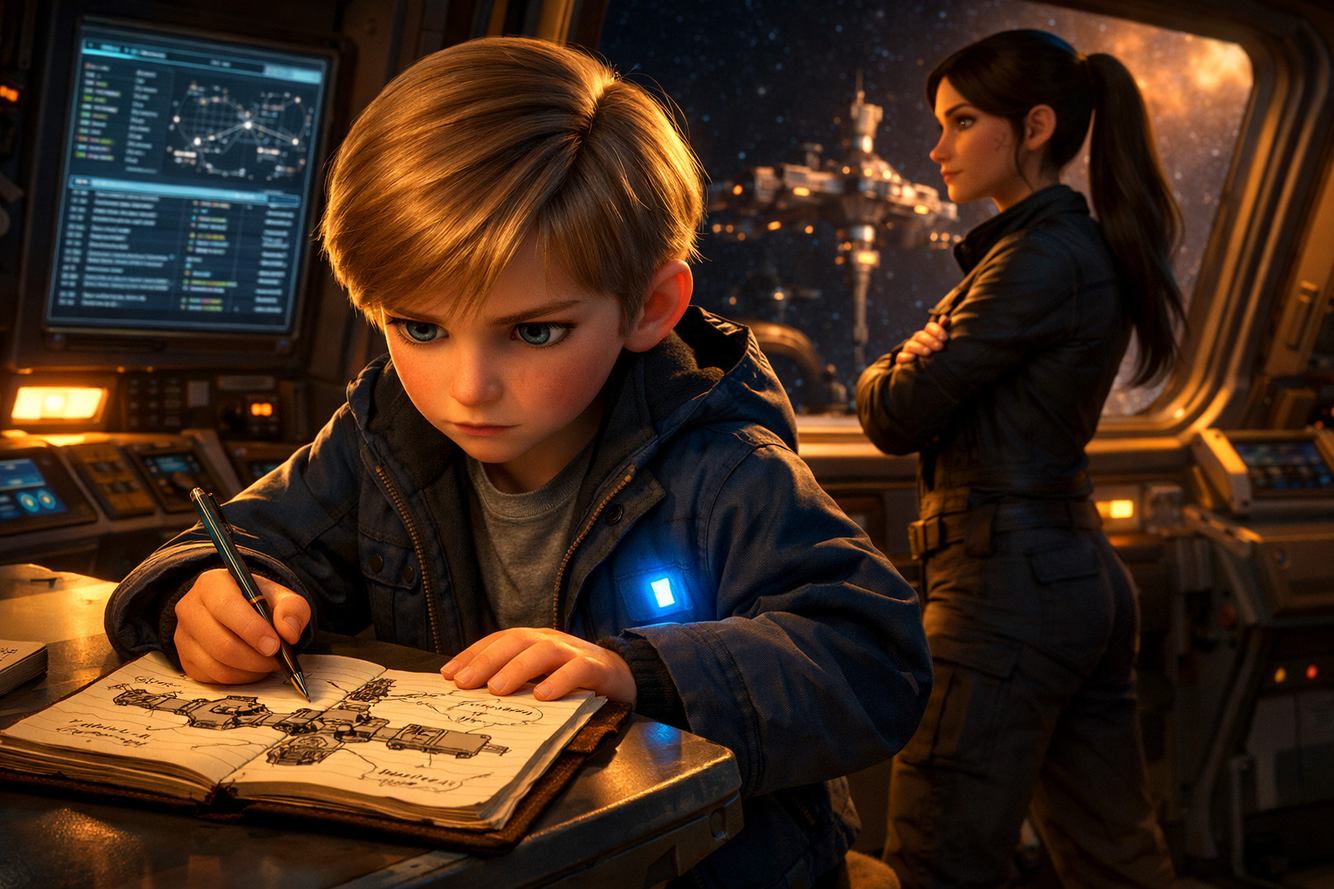
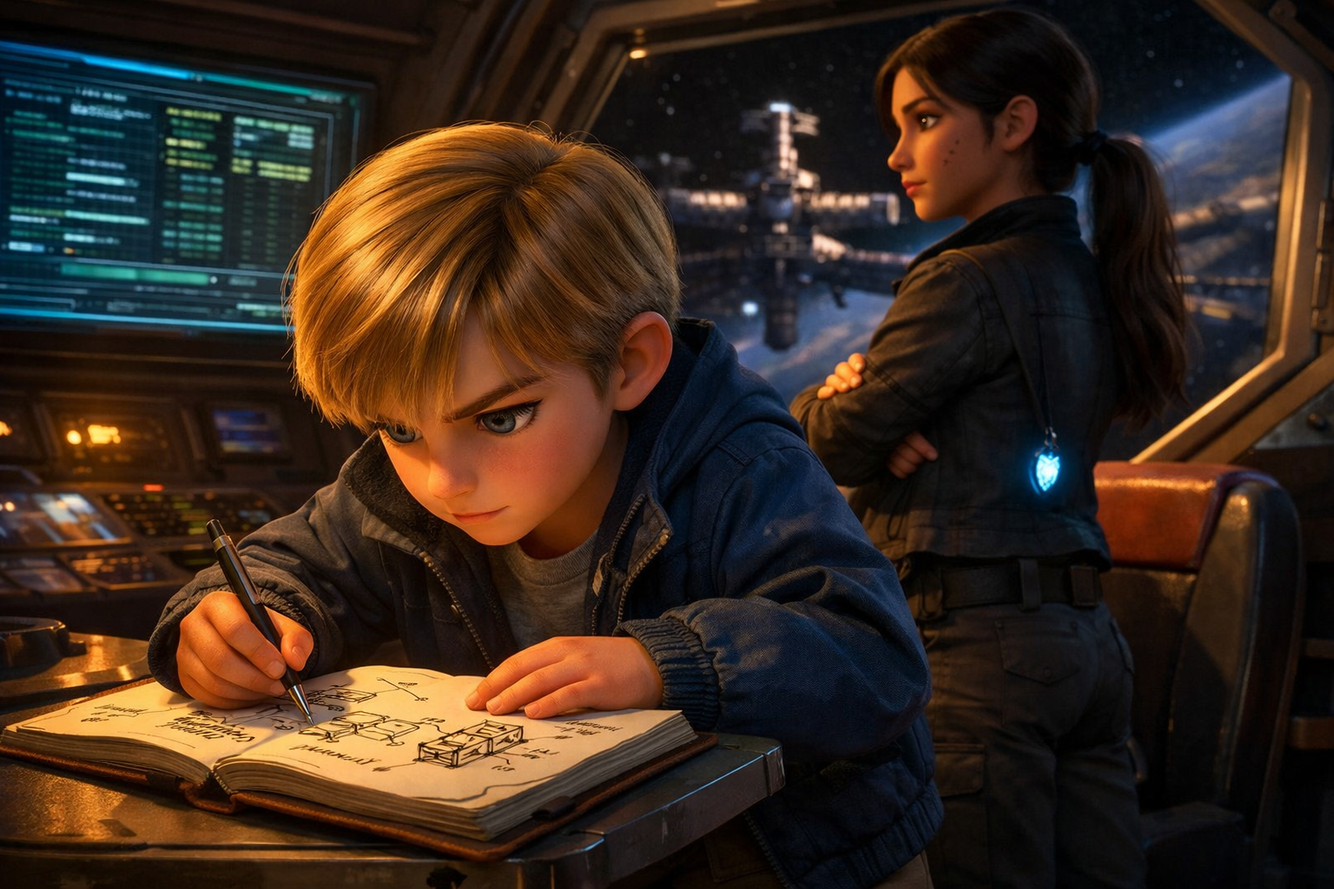
Fix continuity: Declan orange rectangle (not sphere), spire colors, fragment count

diff --git a/stories/chapter-018.md b/stories/chapter-018.md
@@ -13,17 +13,17 @@ On the flight home from the Shale Drift, the scout ship's cockpit had turned int
 
 **Page 2**
 
-Sable didn't look up from the controls. Her hands were steady on the flight stick, dark ponytail silhouetted against the starfield through the windshield, jaw scar visible in profile. She had been quiet since they'd left the Drift, running scenarios in her head with the same methodical patience she brought to everything. "Whatever it is," she said, "it's guarding a fragment that isn't glowing. That's the priority." She was right, and everyone knew it. The dark red fragment sitting in that cave — dull and lifeless like dried rust — was wrong in a way that none of their fragments had ever been. Fragments glowed. That was the one constant. Behind them in the cabin, Declan slept curled against Ollie on a bench seat, both of them peaceful and oblivious to the weight of the conversation happening ten feet away. The amber sphere at Declan's chest pulsed softly in time with his breathing, casting a warm glow across the dog's silver-grey fur. Even in sleep, the toddler seemed to know something the rest of them were still trying to figure out.
+Sable didn't look up from the controls. Her hands were steady on the flight stick, dark ponytail silhouetted against the starfield through the windshield, jaw scar visible in profile. She had been quiet since they'd left the Drift, running scenarios in her head with the same methodical patience she brought to everything. "Whatever it is," she said, "it's guarding a fragment that isn't glowing. That's the priority." She was right, and everyone knew it. The dark red fragment sitting in that cave — dull and lifeless like dried rust — was wrong in a way that none of their fragments had ever been. Fragments glowed. That was the one constant. Behind them in the cabin, Declan slept curled against Ollie on a bench seat, both of them peaceful and oblivious to the weight of the conversation happening ten feet away. The small orange rectangle at Declan's chest pulsed softly in time with his breathing, casting a warm glow across the dog's silver-grey fur. Even in sleep, the toddler seemed to know something the rest of them were still trying to figure out.
 
-<!-- PROMPT: Pixar/Disney-quality 3D animated illustration, warm cinematic lighting, rich saturated colors, expressive faces, 16:9 landscape format. Over-the-shoulder shot from behind {{sable}} at the pilot controls, her dark ponytail silhouetted against the starfield through the windshield. Her hands are steady on the flight stick, expression focused and contemplative, scar visible in profile. In the background cabin behind her, {{declan}} sleeps curled against {{ollie}} on a bench seat, both peaceful — the amber sphere at Declan's chest casting a soft warm glow across the dog's silver-grey curly fur. Blue starlight from the windows mixes with warm amber glow from the fragment. Quiet, determined atmosphere. -->
+<!-- PROMPT: Pixar/Disney-quality 3D animated illustration, warm cinematic lighting, rich saturated colors, expressive faces, 16:9 landscape format. Over-the-shoulder shot from behind {{sable}} at the pilot controls, her dark ponytail silhouetted against the starfield through the windshield. Her hands are steady on the flight stick, expression focused and contemplative, scar visible in profile. In the background cabin behind her, {{declan}} sleeps curled against {{ollie}} on a bench seat, both peaceful — the small orange rectangle at Declan's chest casting a soft warm glow across the dog's silver-grey curly fur. Blue starlight from the windows mixes with warm amber glow from the fragment. Quiet, determined atmosphere. -->
 
 ---
 
 **Page 3**
 
-Monscollis Colony appeared below them as the scout ship broke through the upper atmosphere — the familiar patchwork of domed buildings and greenhouse tunnels spread across the red-brown terrain, with the crystal spire rising above it all like a lighthouse made of living light. Tonight the spire pulsed with five distinct colors — blue, gold, amber, violet, and silver-blue — painting the evening sky in shifting bands of color that made the sunset look like it was competing for attention and losing. Captain Okonkwo was waiting at the bottom of the landing ramp. She stood with her arms behind her back, tall and authoritative in her dark colony uniform, watching the ship settle onto the pad with the unreadable expression of someone who had been expecting bad news and was bracing herself to hear it. "Report," she said before the ramp had fully extended. Julian handed over his notebook without being asked, already open to the relevant page. "Gymnasium-sized cave, pre-Covenant carvings on every surface, and a shifting grey entity approximately twelve feet tall that responds to vocal vibrations and appears to have a particular interest in the youngest member of our team." Okonkwo flipped to Petra's sketch and stopped. Something shifted in her face — a flash of recognition that aged her expression by twenty years. "A Rift Entity," she said quietly. "In the old records from the first expansion. Beings that stayed behind to guard the pieces."
+Monscollis Colony appeared below them as the scout ship broke through the upper atmosphere — the familiar patchwork of domed buildings and greenhouse tunnels spread across the red-brown terrain, with the crystal spire rising above it all like a lighthouse made of living light. Tonight the spire pulsed with five distinct colors — gold, silver-blue, amber, violet-white, and yellow-green — painting the evening sky in shifting bands of color that made the sunset look like it was competing for attention and losing. Captain Okonkwo was waiting at the bottom of the landing ramp. She stood with her arms behind her back, tall and authoritative in her dark colony uniform, watching the ship settle onto the pad with the unreadable expression of someone who had been expecting bad news and was bracing herself to hear it. "Report," she said before the ramp had fully extended. Julian handed over his notebook without being asked, already open to the relevant page. "Gymnasium-sized cave, pre-Covenant carvings on every surface, and a shifting grey entity approximately twelve feet tall that responds to vocal vibrations and appears to have a particular interest in the youngest member of our team." Okonkwo flipped to Petra's sketch and stopped. Something shifted in her face — a flash of recognition that aged her expression by twenty years. "A Rift Entity," she said quietly. "In the old records from the first expansion. Beings that stayed behind to guard the pieces."
 
-<!-- PROMPT: Pixar/Disney-quality 3D animated illustration, warm cinematic lighting, rich saturated colors, expressive faces, 16:9 landscape format. Wide establishing shot from above. The battered scout ship descends toward the Monscollis Colony landing pad at dusk, engines glowing. The great crystal spire rises in the background, pulsing with five distinct colors — blue, gold, amber, violet, and silver-blue — against a purple-orange sunset sky. The colony spreads below with domed buildings and greenhouses. At the base of the landing pad, Captain Okonkwo — a tall authoritative woman in a dark colony uniform — stands waiting with arms behind her back, watching the ship land. Cinematic wide composition, beautiful alien colony at twilight. -->
+<!-- PROMPT: Pixar/Disney-quality 3D animated illustration, warm cinematic lighting, rich saturated colors, expressive faces, 16:9 landscape format. Wide establishing shot from above. The battered scout ship descends toward the Monscollis Colony landing pad at dusk, engines glowing. The great crystal spire rises in the background, pulsing with five distinct colors — gold, silver-blue, amber, violet-white, and yellow-green — against a purple-orange sunset sky. The colony spreads below with domed buildings and greenhouses. At the base of the landing pad, Captain Okonkwo — a tall authoritative woman in a dark colony uniform — stands waiting with arms behind her back, watching the ship land. Cinematic wide composition, beautiful alien colony at twilight. -->
 
 ---
 
@@ -45,9 +45,9 @@ That evening, the Nelson cabin was crowded in the way it always was when somethi
 
 **Page 6**
 
-"But the fragment isn't glowing," Rafe said, gesturing toward the holographic map with one hand, his amber-orange stone swinging on its cord at his neck. The lamplight caught his red hair and made it look like it was on fire. His expression was troubled — the look of someone who relied on things making sense and was finding that they didn't. "If it's a guardian, why is the thing it's guarding broken?" The room went quiet. That was the question nobody had wanted to ask, because the answer might be worse than not knowing. Then Declan climbed onto a chair — a process that took about thirty seconds and involved significant arm-over-arm effort and one assist from Ollie's head — and leaned over the table toward the map. One small hand reached out to touch the pulsing red dot that marked the Shale Drift, and the amber sphere at his chest glowed in sync with the map pulse, as if the two were having a conversation the rest of them couldn't hear. "He's not broken," Declan said, with the patience of someone explaining something very obvious to someone very slow. "He's just... waiting for the song." Every adult and older child in the room stared at the toddler. Julian's pen hovered frozen above his notebook. "What song?" he asked.
+"But the fragment isn't glowing," Rafe said, gesturing toward the holographic map with one hand, his amber-orange stone swinging on its cord at his neck. The lamplight caught his red hair and made it look like it was on fire. His expression was troubled — the look of someone who relied on things making sense and was finding that they didn't. "If it's a guardian, why is the thing it's guarding broken?" The room went quiet. That was the question nobody had wanted to ask, because the answer might be worse than not knowing. Then Declan climbed onto a chair — a process that took about thirty seconds and involved significant arm-over-arm effort and one assist from Ollie's head — and leaned over the table toward the map. One small hand reached out to touch the pulsing red dot that marked the Shale Drift, and the small orange rectangle at his chest glowed in sync with the map pulse, as if the two were having a conversation the rest of them couldn't hear. "He's not broken," Declan said, with the patience of someone explaining something very obvious to someone very slow. "He's just... waiting for the song." Every adult and older child in the room stared at the toddler. Julian's pen hovered frozen above his notebook. "What song?" he asked.
 
-<!-- PROMPT: Pixar/Disney-quality 3D animated illustration, warm cinematic lighting, rich saturated colors, expressive faces, 16:9 landscape format. {{rafe}} gestures toward the holographic map on the table, his amber-orange stone glowing at his neck, red hair catching the lamplight like fire, expression troubled. Across from him, {{declan}} has climbed onto a chair and leans over the table toward the map, one small hand reaching out to touch the pulsing red dot that marks the Shale Drift. His face is calm and certain — the only person in the room who isn't worried. The amber sphere at his chest glows in perfect sync with the map pulse. Every adult and older child watches the toddler with a mix of awe and confusion — {{julian}} frozen mid-write, {{ezra}} leaning forward, {{sable}} jaw tight. Warm golden light from Declan's fragment illuminates the faces around the table. -->
+<!-- PROMPT: Pixar/Disney-quality 3D animated illustration, warm cinematic lighting, rich saturated colors, expressive faces, 16:9 landscape format. {{rafe}} gestures toward the holographic map on the table, his amber-orange stone glowing at his neck, red hair catching the lamplight like fire, expression troubled. Across from him, {{declan}} has climbed onto a chair and leans over the table toward the map, one small hand reaching out to touch the pulsing red dot that marks the Shale Drift. His face is calm and certain — the only person in the room who isn't worried. The small orange rectangle at his chest glows in perfect sync with the map pulse. Every adult and older child watches the toddler with a mix of awe and confusion — {{julian}} frozen mid-write, {{ezra}} leaning forward, {{sable}} jaw tight. Warm golden light from Declan's fragment illuminates the faces around the table. -->
 
 ---
 
@@ -55,7 +55,7 @@ That evening, the Nelson cabin was crowded in the way it always was when somethi
 
 Declan looked at Julian with an expression that should not have been possible on a two-year-old's face — the patient, slightly pitying look of a wise elder addressing a slow student. His eyebrows raised slightly, his head tilted, and for just a moment the amber glow at his chest brightened as if to say, "Come on, keep up." "The *real* song," Declan said, as if that explained everything, and then he climbed back down from the chair and went to find his wooden blocks. The room erupted into theories and arguments. Julian wanted to go back to the cave with recording equipment. Rafe thought they should bring the fragment back by force. Noa suggested she could try to boost the dead fragment's energy from the outside. Sable listened to all of them and said nothing, her silver-blue pendant swirling with the slow, thoughtful pattern that meant she was processing. But it was late, and plans could wait until morning. One by one, they drifted to their rooms, fragments dimming to sleeping-glow, the cabin growing quiet except for the tick of cooling pipes and the distant hum of the crystal spire outside.
 
-<!-- PROMPT: Pixar/Disney-quality 3D animated illustration, warm cinematic lighting, rich saturated colors, expressive faces, 16:9 landscape format. Close-up two-shot. {{julian}} leans forward across the table, brow furrowed, notebook and pencil ready, hazel-blue eyes intense with analytical focus, asking a question. {{declan}} faces him from across the table, and despite being a toddler his expression is one of patient, almost pitying wisdom — eyebrows raised slightly, head tilted, big brown eyes saying "isn't it obvious?" The contrast between Julian's desperate need to understand and Declan's effortless knowing is the heart of the frame. Warm golden light from Declan's amber sphere illuminates both their faces. The other family members are slightly blurred in the background, all watching this exchange. -->
+<!-- PROMPT: Pixar/Disney-quality 3D animated illustration, warm cinematic lighting, rich saturated colors, expressive faces, 16:9 landscape format. Close-up two-shot. {{julian}} leans forward across the table, brow furrowed, notebook and pencil ready, hazel-blue eyes intense with analytical focus, asking a question. {{declan}} faces him from across the table, and despite being a toddler his expression is one of patient, almost pitying wisdom — eyebrows raised slightly, head tilted, big brown eyes saying "isn't it obvious?" The contrast between Julian's desperate need to understand and Declan's effortless knowing is the heart of the frame. Warm golden light from Declan's small orange rectangle illuminates both their faces. The other family members are slightly blurred in the background, all watching this exchange. -->
 
 ---
 
@@ -71,7 +71,7 @@ Late that night, Ezra sat on the cabin porch with Ollie. The twin moons were hig
 
 The back bedroom was dark except for moonlight through the window — and the amber glow from Declan's chest. The toddler sat upright in his small bed, eyes closed, face serene, mouth slightly open. The deep hum wasn't coming from his throat; it was coming from the sphere at his chest, radiating outward in visible concentric waves that made the floorboards vibrate and the window glass rattle softly in its frame. It was the exact same sound the Rift Entity had made in the cave — the ancient, bone-deep frequency that had echoed through millennia of carved stone. Declan was channeling it in his sleep, or in whatever state existed between sleep and something much older. Then Ollie did something extraordinary. The dog walked into the room, sat beside Declan's bed, tilted his grey-silver head upward, and began to hum. Not bark. Not whine. A high, clear note that wove perfectly into Declan's deep rumble like a harmony written by a composer who understood that the simplest melodies were always the most powerful. Ezra stood frozen in the doorway, one hand on the frame, watching the two-tone harmony ripple through the air in waves he could feel in his teeth. Then he looked down at his own chest and his breath caught. The gold star was changing. It blazed bright, shifting from its usual warm gold through amber, through something darker, and then settling into a deep, vibrant rusty red that spilled across his hands and chin like light from a stained-glass window.
 
-<!-- PROMPT: Pixar/Disney-quality 3D animated illustration, warm cinematic lighting, rich saturated colors, expressive faces, 16:9 landscape format. Interior of the children's dark bedroom, moonlight through the window. {{declan}} sits upright in his small bed, eyes closed, face utterly serene, mouth slightly open. Visible concentric sound waves radiate from his amber chest-sphere, deep and powerful, making the floorboards vibrate and window glass rattle. {{ollie}} sits beside the bed, grey-silver curly head tilted up, mouth open in a high clear harmony — thinner sound waves interweaving with Declan's deeper ones, creating a visible two-tone pattern in the air. {{ezra}} stands frozen in the doorway, one hand on the frame, brown eyes wide, looking down at his own chest — the gold glow is shifting, changing color through amber into a deep vibrant rusty red. The red light spills across his face and hands. Two-tone harmony made visible in light and vibration. Intimate, transformative, magical. -->
+<!-- PROMPT: Pixar/Disney-quality 3D animated illustration, warm cinematic lighting, rich saturated colors, expressive faces, 16:9 landscape format. Interior of the children's dark bedroom, moonlight through the window. {{declan}} sits upright in his small bed, eyes closed, face utterly serene, mouth slightly open. Visible concentric sound waves radiate from his orange rectangle at his chest, deep and powerful, making the floorboards vibrate and window glass rattle. {{ollie}} sits beside the bed, grey-silver curly head tilted up, mouth open in a high clear harmony — thinner sound waves interweaving with Declan's deeper ones, creating a visible two-tone pattern in the air. {{ezra}} stands frozen in the doorway, one hand on the frame, brown eyes wide, looking down at his own chest — the gold glow is shifting, changing color through amber into a deep vibrant rusty red. The red light spills across his face and hands. Two-tone harmony made visible in light and vibration. Intimate, transformative, magical. -->
 
 ---
 
@@ -95,4 +95,4 @@ Declan smiled the smile of a two-year-old who has been waiting for this exact qu
 
 The Purge warship turned and burned away into the clouds, its engines flaring with the desperate brightness of a retreat that wanted to look like a strategic withdrawal and failed. In the command center, the dust settled. The broken screen sparked and went dark. The Rift Entity stood motionless for a long moment, its pale eyes moving slowly from face to face — pausing on Petra, whose violet fingertips glowed in instinctive response; on Rafe, whose amber stone levitated his necklace straight up from his chest; on Noa, whose headphones buzzed with resonant frequency; on Sable, whose silver-blue pendant pulsed in time with something ancient. Then it looked at Declan. A soft clicking sound came from somewhere deep inside its shifting grey mass — the sound a very old creature makes when it says goodbye to a very young friend. "Bye-bye," Declan said, waving one chubby hand. The grey smoke began to dissipate, pulling apart like morning fog burning off under sunlight, until there was nothing left but clear air and the faint smell of wet stone. On the floor where the entity had stood, a fragment sat. Not dull anymore. Not dark. It glowed deep, vibrant crimson — alive and pulsing in rhythm with Ezra's gold and Sable's silver-blue, three lights beating as one. Julian knelt beside it, awestruck, whispering measurements and observations into his notebook with shaking hands. Declan yawned enormously, his eyes squeezed shut, small fists balled. "Now brefkist?" he asked. And because even the universe knows when a toddler has earned his breakfast, someone started making pancakes.
 
-<!-- PROMPT: Pixar/Disney-quality 3D animated illustration, warm cinematic lighting, rich saturated colors, expressive faces, 16:9 landscape format. Final page, warm resolution. The command center after the storm — dust settling, broken screen dark. In the center, on the floor where the entity stood, a vibrant deep crimson fragment glows powerfully, pulsing light across the room. {{julian}} kneels beside it, awestruck, notebook shaking in his hands. Around the room, the Guardians' fragments all respond — gold, silver-blue, amber, violet, yellow-green, and now crimson — six lights beating together. {{declan}} stands mid-yawn, eyes squeezed shut, fists balled, green jumpsuit dusty, amber sphere bright at his chest. {{ollie}} sits beside him, tail wagging. Through the window behind them, the Purge warship retreats as a tiny speck in the morning sky. Warm golden dawn light floods in. Hope, warmth, triumph, and a toddler's perfect priorities. -->
+<!-- PROMPT: Pixar/Disney-quality 3D animated illustration, warm cinematic lighting, rich saturated colors, expressive faces, 16:9 landscape format. Final page, warm resolution. The command center after the storm — dust settling, broken screen dark. In the center, on the floor where the entity stood, a vibrant deep crimson fragment glows powerfully, pulsing light across the room. {{julian}} kneels beside it, awestruck, notebook shaking in his hands. Around the room, the Guardians' fragments all respond — gold, silver-blue, amber, violet, yellow-green, and now crimson — six lights beating together. {{declan}} stands mid-yawn, eyes squeezed shut, fists balled, green jumpsuit dusty, small orange rectangle bright at his chest. {{ollie}} sits beside him, tail wagging. Through the window behind them, the Purge warship retreats as a tiny speck in the morning sky. Warm golden dawn light floods in. Hope, warmth, triumph, and a toddler's perfect priorities. -->

diff --git a/stories/chapter-017.md b/stories/chapter-017.md
@@ -29,9 +29,9 @@ On a Tuesday that felt perfectly unremarkable — the kind of Tuesday where the 
 
 **Page 4**
 
-"I thought the Shadow Hand had Fragment Six," Rafe said, leaning forward to study the pulsing dot. His amber-orange stone glowed warm at his neck, responding to the proximity of fragment energy even through a hologram. Sable shook her head. "They did. Until three days ago, when whatever was holding it... stopped holding it." She let that sink in. Julian's pen was already scratching across his notebook, writing down coordinates and questions in equal measure. "Stopped holding it how?" he asked without looking up. "That's what we need to find out," Sable said. She pointed to a cluster of moons at the far edge of the map. "This is the Shale Drift. Nobody goes there. Mostly fog and old rock formations. But three days ago, the fragment's energy signature reappeared on our sensors — unshielded, unmoved, just... sitting there." From the floor, Declan looked up from his collapsed spoon tower. His big brown eyes were wide, and the amber sphere at his chest flickered with a pulse that matched the yellow dot on the map. "Uh-oh," he said, in the tone of a toddler who understood more than anyone wanted to admit.
+"I thought the Shadow Hand had Fragment Six," Rafe said, leaning forward to study the pulsing dot. His amber-orange stone glowed warm at his neck, responding to the proximity of fragment energy even through a hologram. Sable shook her head. "They did. Until three days ago, when whatever was holding it... stopped holding it." She let that sink in. Julian's pen was already scratching across his notebook, writing down coordinates and questions in equal measure. "Stopped holding it how?" he asked without looking up. "That's what we need to find out," Sable said. She pointed to a cluster of moons at the far edge of the map. "This is the Shale Drift. Nobody goes there. Mostly fog and old rock formations. But three days ago, the fragment's energy signature reappeared on our sensors — unshielded, unmoved, just... sitting there." From the floor, Declan looked up from his collapsed spoon tower. His big brown eyes were wide, and the small orange rectangle at his chest flickered with a pulse that matched the yellow dot on the map. "Uh-oh," he said, in the tone of a toddler who understood more than anyone wanted to admit.
 
-<!-- PROMPT: Pixar/Disney-quality 3D animated illustration, warm cinematic lighting, rich saturated colors, expressive faces, 16:9 landscape format. Close-up of the holographic star map floating above a tablet on the cabin kitchen table. A bright yellow pulsing dot sits at the far edge of the map, beyond labeled zones, in a dark region with faded text reading "UNMAPPED." Multiple hands reach toward the map from different sides — {{rafe}}'s with his amber stone glowing at the wrist, {{julian}}'s holding a pen. Their faces are visible behind the map glow: {{julian}} intense and analytical, {{rafe}} brow furrowed with concern, {{sable}} jaw set with determination. In the lower foreground, {{declan}} sits on the floor surrounded by scattered spoons, looking up at the map with big knowing brown eyes, amber chest-sphere pulsing in sync with the yellow dot. -->
+<!-- PROMPT: Pixar/Disney-quality 3D animated illustration, warm cinematic lighting, rich saturated colors, expressive faces, 16:9 landscape format. Close-up of the holographic star map floating above a tablet on the cabin kitchen table. A bright yellow pulsing dot sits at the far edge of the map, beyond labeled zones, in a dark region with faded text reading "UNMAPPED." Multiple hands reach toward the map from different sides — {{rafe}}'s with his amber stone glowing at the wrist, {{julian}}'s holding a pen. Their faces are visible behind the map glow: {{julian}} intense and analytical, {{rafe}} brow furrowed with concern, {{sable}} jaw set with determination. In the lower foreground, {{declan}} sits on the floor surrounded by scattered spoons, looking up at the map with big knowing brown eyes, orange rectangle at his chest pulsing in sync with the yellow dot. -->
 
 ---
 
@@ -45,9 +45,9 @@ Sable zoomed the map into the Shale Drift. The cluster of jagged moons hung in h
 
 **Page 6**
 
-They left the next morning on Captain Okonkwo's old scout ship. It was smaller than the *Ariadne*, smaller than anything they'd flown in before — a compact, battered vessel with patched hull plates and scorch marks from encounters nobody had bothered to explain. The corridors were so narrow that Rafe and Petra had to walk single file. The cockpit smelled like engine grease and old sandwiches and something vaguely metallic that Julian suspected was dried coolant. Sable took the pilot's seat like she'd been flying since birth, running through pre-flight checks with practiced efficiency while Noa boosted the ship's systems from the engine room, her yellow-green glow making the old instruments hum with unexpected life. "I like it," Declan announced from the corridor, standing on his tiptoes with both small palms pressed flat against the metal wall. He said this about every new place they visited, but the way his amber sphere pulsed warm against the ship's hull suggested the ship liked him back. Ollie sat beside the toddler, tail wagging, apparently sharing the sentiment.
+They left the next morning on Captain Okonkwo's old scout ship. It was smaller than the *Ariadne*, smaller than anything they'd flown in before — a compact, battered vessel with patched hull plates and scorch marks from encounters nobody had bothered to explain. The corridors were so narrow that Rafe and Petra had to walk single file. The cockpit smelled like engine grease and old sandwiches and something vaguely metallic that Julian suspected was dried coolant. Sable took the pilot's seat like she'd been flying since birth, running through pre-flight checks with practiced efficiency while Noa boosted the ship's systems from the engine room, her yellow-green glow making the old instruments hum with unexpected life. "I like it," Declan announced from the corridor, standing on his tiptoes with both small palms pressed flat against the metal wall. He said this about every new place they visited, but the way his small orange rectangle pulsed warm against the ship's hull suggested the ship liked him back. Ollie sat beside the toddler, tail wagging, apparently sharing the sentiment.
 
-<!-- PROMPT: Pixar/Disney-quality 3D animated illustration, warm cinematic lighting, rich saturated colors, expressive faces, 16:9 landscape format. Exterior establishing shot of a small, battered scout ship lifting off from the Monscollis Colony landing pad at dawn. The ship is compact and weathered with patched hull plates and charming scorch marks — scrappy and endearing. The crystal spire glows with five colors in the background. Inset panel in the corner: interior shot of {{declan}} standing on tiptoes in the cramped corridor, both small palms pressed flat against the metal wall, grinning broadly in his green jumpsuit, amber sphere glowing at his chest. {{ollie}} sits beside him, grey-silver curly coat, tail wagging. Warm golden dawn light bathes the scene. -->
+<!-- PROMPT: Pixar/Disney-quality 3D animated illustration, warm cinematic lighting, rich saturated colors, expressive faces, 16:9 landscape format. Exterior establishing shot of a small, battered scout ship lifting off from the Monscollis Colony landing pad at dawn. The ship is compact and weathered with patched hull plates and charming scorch marks — scrappy and endearing. The crystal spire glows with five colors in the background. Inset panel in the corner: interior shot of {{declan}} standing on tiptoes in the cramped corridor, both small palms pressed flat against the metal wall, grinning broadly in his green jumpsuit, small orange rectangle glowing at his chest. {{ollie}} sits beside him, grey-silver curly coat, tail wagging. Warm golden dawn light bathes the scene. -->
 
 ---
 
@@ -79,4 +79,4 @@ The passage was narrow and smelled like wet stone that had been wet for a thousa
 
 Declan walked forward. Nobody stopped him — not because they didn't want to, but because something in the way the toddler moved made it clear that stopping him would be wrong. He walked past his brothers, past the older kids, past Ollie who whined but let him go, and he stood in the center of the cave floor looking up at the towering grey shape. The entity hummed again. Declan opened his mouth and made the exact same sound back. Not an imitation — a *response*, as natural as a child answering "hello" with "hello." The sound waves rippled between them, visible in the way the dust motes caught the light, matching frequencies that harmonized into something that made the ancient carvings on the walls pulse faintly. "Hi," Declan said. "I'm Decker." The shape slowly stepped back two feet. Not leaving. Not attacking. Just making room, the way you would for someone you recognized. They didn't take the dark fragment that day. They needed to learn more. On the ship home, Noa crouched down to Declan's eye level and asked what the shape was. He thought about it seriously, brow furrowed, as if sorting through a vocabulary that didn't have the right words yet. Then his face softened into a small knowing smile. "Old friend," he said. And far below, in the empty cave on the Shale Drift, the dark-red fragment pulsed once. Dim. But there. Something was waking up.
 
-<!-- PROMPT: Pixar/Disney-quality 3D animated illustration, warm cinematic lighting, rich saturated colors, expressive faces, 16:9 landscape format. Intimate, powerful scene. Tiny {{declan}} stands alone in the center of the vast cave floor in his green jumpsuit, looking up without fear at the towering grey smoke-figure with its pale eye-lights. His mouth is open, making a sound. Visible sound waves ripple between the toddler and the entity — matching frequencies, harmonizing. The grey figure has shifted its posture from looming to almost respectful, stepping back. The amber sphere at Declan's chest glows warmly. Behind Declan, the other children stand frozen in stunned silence — {{ezra}}, {{julian}}, {{sable}}, {{rafe}}, {{petra}}, {{noa}}. {{ollie}} whines but stays back. The ancient wall carvings pulse faintly in response to the shared hum. Warm amber glow against cold grey shadow. The moment a toddler greets something ancient. -->
+<!-- PROMPT: Pixar/Disney-quality 3D animated illustration, warm cinematic lighting, rich saturated colors, expressive faces, 16:9 landscape format. Intimate, powerful scene. Tiny {{declan}} stands alone in the center of the vast cave floor in his green jumpsuit, looking up without fear at the towering grey smoke-figure with its pale eye-lights. His mouth is open, making a sound. Visible sound waves ripple between the toddler and the entity — matching frequencies, harmonizing. The grey figure has shifted its posture from looming to almost respectful, stepping back. The small orange rectangle at Declan's chest glows warmly. Behind Declan, the other children stand frozen in stunned silence — {{ezra}}, {{julian}}, {{sable}}, {{rafe}}, {{petra}}, {{noa}}. {{ollie}} whines but stays back. The ancient wall carvings pulse faintly in response to the shared hum. Warm amber glow against cold grey shadow. The moment a toddler greets something ancient. -->

diff --git a/stories/chapter-016.md b/stories/chapter-016.md
@@ -63,13 +63,13 @@ The main transit lounge was a cavernous room with mismatched chairs, a food coun
 
 Noa looked at the group assembled around her table — the tall girl with the scar and the silver pendant, the red-haired boy with the amber stone, the girl with the violet glow and the short-cropped red hair, the seven-year-old furiously scribbling in a notebook, and the five-year-old in the orange hoodie whose chest glowed gold like he had swallowed a small sun. Then her eyes settled on Declan, who had climbed down from Ollie's back and was sitting on the cold metal floor, trying to share a piece of very old hardtack with the dog. Ollie was politely pretending to consider it. "Is he a Guardian too?" Noa asked, pointing at the toddler. "He's the youngest," Ezra said. "And the bravest." Declan looked up, saw the new girl, and did his most important job — the job he had given himself without anyone asking. He reached into the pocket of his green jumpsuit and pulled out the smooth grey rock he had carried all the way from Monscollis. He walked over to Noa's table on his short, determined legs and placed the rock in front of her with both hands. "For you," he said. "Lone-ee no more."
 
-<!-- PROMPT: Pixar/Disney-quality 3D animated illustration, warm cinematic lighting, rich saturated colors, expressive faces, 16:9 landscape format. Sweet, emotional moment. Tiny {{declan}} stands on tiptoes at the edge of the table, both small hands placing a smooth grey rock in front of {{noa}}. His big brown eyes look up at her with solemn generosity, light brown wispy hair sticking up, green jumpsuit rumpled, amber sphere glowing warmly at his chest. {{noa}} looks down at the rock and the toddler, her sharp self-sufficient expression softening for the first time — surprise and tenderness breaking through. {{ollie}} sits beside Declan, grey-silver curly coat, watching the exchange with gentle dog-wisdom. The other Guardians stand behind, watching quietly. Warm, intimate, the moment a stranger becomes family. -->
+<!-- PROMPT: Pixar/Disney-quality 3D animated illustration, warm cinematic lighting, rich saturated colors, expressive faces, 16:9 landscape format. Sweet, emotional moment. Tiny {{declan}} stands on tiptoes at the edge of the table, both small hands placing a smooth grey rock in front of {{noa}}. His big brown eyes look up at her with solemn generosity, light brown wispy hair sticking up, green jumpsuit rumpled, small orange rectangle glowing warmly at his chest. {{noa}} looks down at the rock and the toddler, her sharp self-sufficient expression softening for the first time — surprise and tenderness breaking through. {{ollie}} sits beside Declan, grey-silver curly coat, watching the exchange with gentle dog-wisdom. The other Guardians stand behind, watching quietly. Warm, intimate, the moment a stranger becomes family. -->
 
 ---
 
 **Page 9**
 
-The return to the *Ariadne* wasn't as quiet. They were twenty yards from the docking bay when three men in dark, reinforced jumpsuits stepped out from behind a stack of cargo crates. They didn't have colony insignias. They had the mark of the Shadow Hand on their shoulders — a black palm printed over a grey sun. The lead man held a specialized containment unit, a sleek black cylinder designed to neutralize fragment energy, and he pointed it at Noa like a weapon. "The girl comes with us," he said. Petra stepped forward without hesitation, her violet light flaring bright enough to make the men shield their eyes. "I don't think so," she said. Rafe didn't say anything at all. He just looked at a heavy cargo pallet ten feet behind the agents, and the pallet groaned, lifted six inches off the ground, and began to drift slowly, inevitably, toward them. Sable's silver-blue pendant pulsed in time with the other fragments, and she stepped shoulder-to-shoulder with Petra. "We have five fragments now," she said. "You really want to do this on a station with bad coffee and no backup?" The men looked at the five glowing children. They looked at the hovering pallet. They looked at Ollie, who was baring every single one of his teeth. They stepped back.
+The return to the *Ariadne* wasn't as quiet. They were twenty yards from the docking bay when three men in dark, reinforced jumpsuits stepped out from behind a stack of cargo crates. They didn't have colony insignias. They had the mark of the Shadow Hand on their shoulders — a black palm printed over a grey sun. The lead man held a specialized containment unit, a sleek black cylinder designed to neutralize fragment energy, and he pointed it at Noa like a weapon. "The girl comes with us," he said. Petra stepped forward without hesitation, her violet light flaring bright enough to make the men shield their eyes. "I don't think so," she said. Rafe didn't say anything at all. He just looked at a heavy cargo pallet ten feet behind the agents, and the pallet groaned, lifted six inches off the ground, and began to drift slowly, inevitably, toward them. Sable's silver-blue pendant pulsed in time with the other fragments, and she stepped shoulder-to-shoulder with Petra. "We have six fragments now," she said. "You really want to do this on a station with bad coffee and no backup?" The men looked at the six glowing children. They looked at the hovering pallet. They looked at Ollie, who was baring every single one of his teeth. They stepped back.
 
 <!-- PROMPT: Pixar/Disney-quality 3D animated illustration, warm cinematic lighting, rich saturated colors, expressive faces, 16:9 landscape format. Tense confrontation in the docking bay. Three Shadow Hand agents in dark reinforced jumpsuits with black-palm-over-grey-sun shoulder insignias face the group of children. The lead agent holds a sleek black containment cylinder, expression menacing but faltering. Opposing them: {{petra}} stands front and center, short red hair, violet-white light blazing from her fragment so bright it casts sharp shadows. {{rafe}} stands beside her, hand outstretched, his amber-orange stone glowing as a massive cargo pallet levitates behind the agents. {{sable}} flanks with silver-blue pendant pulsing. Behind them, {{julian}}, {{ezra}}, {{noa}}, and {{declan}} are protected. {{ollie}} bares his teeth, hackles raised. Five different fragment colors glow together. The agents are visibly intimidated. -->
 
@@ -77,6 +77,6 @@ The return to the *Ariadne* wasn't as quiet. They were twenty yards from the doc
 
 **Page 10**
 
-On the jump back to Monscollis, the *Ariadne* felt like a different ship. Noa sat in the secondary navigator's seat with her hand resting on the console, her wrist-stone glowing steady yellow-green, and the ship didn't just fly — it *hummed*. The vibration of the engines smoothed out until it felt like they were sliding on silk through the stars. The jump-lights didn't flicker. The hull didn't creak. "We're going twenty percent faster," Wren said from the pilot's seat, her eyes fixed on the gauges, and though she didn't look back, Ezra saw her hand tighten on the controls — the quiet tell of a pilot who was deeply impressed and trying not to show it. In the back of the cabin, the five Guardians sat together for the first time as five. Gold, silver-blue, amber, violet, and yellow-green — the lights from their fragments mixed in the air between them like paint swirling in water, creating colors that didn't have names yet. Noa pulled the smooth grey rock from her jacket pocket and turned it over in her fingers. She looked at the boys and the dog and the older kids who had come all the way across the stars to find her. "I think I like being a Guardian," she said. Ezra smiled. "You're not alone anymore," he told her. And in the warm, humming cabin of the *Ariadne*, with five fragments glowing together and Declan already asleep on Ollie's back, it felt — for the first time — like the light was winning.
+On the jump back to Monscollis, the *Ariadne* felt like a different ship. Noa sat in the secondary navigator's seat with her hand resting on the console, her wrist-stone glowing steady yellow-green, and the ship didn't just fly — it *hummed*. The vibration of the engines smoothed out until it felt like they were sliding on silk through the stars. The jump-lights didn't flicker. The hull didn't creak. "We're going twenty percent faster," Wren said from the pilot's seat, her eyes fixed on the gauges, and though she didn't look back, Ezra saw her hand tighten on the controls — the quiet tell of a pilot who was deeply impressed and trying not to show it. In the back of the cabin, the six Guardians sat together for the first time as six. Gold, silver-blue, amber, violet-white, yellow-green, and the soft orange glow from Declan's rectangle — the lights from their fragments mixed in the air between them like paint swirling in water, creating colors that didn't have names yet. Noa pulled the smooth grey rock from her jacket pocket and turned it over in her fingers. She looked at the boys and the dog and the older kids who had come all the way across the stars to find her. "I think I like being a Guardian," she said. Ezra smiled. "You're not alone anymore," he told her. And in the warm, humming cabin of the *Ariadne*, with six fragments glowing together and Declan already asleep on Ollie's back, it felt — for the first time — like the light was winning.
 
 <!-- PROMPT: Pixar/Disney-quality 3D animated illustration, warm cinematic lighting, rich saturated colors, expressive faces, 16:9 landscape format. Interior of the Ariadne cabin during hyperspace jump, streaking stars visible through the windows. {{noa}} sits in the navigator's seat beside {{wren}}, her hand on the console, yellow-green wrist-stone glowing, the whole cockpit bathed in warm smooth light. In the cabin behind them, the five Guardians are together: {{ezra}} and {{noa}} smile at each other, {{julian}} writes in his notebook, {{sable}} leans back with arms crossed and a rare small smile, {{rafe}} and {{petra}} sit side by side. {{declan}} sleeps peacefully on {{ollie}}'s back. Five fragment colors — gold, silver-blue, amber, violet, and yellow-green — swirl together in the air between them, creating a beautiful aurora of blended light. Warm, hopeful, triumphant. The feeling of family found. -->
